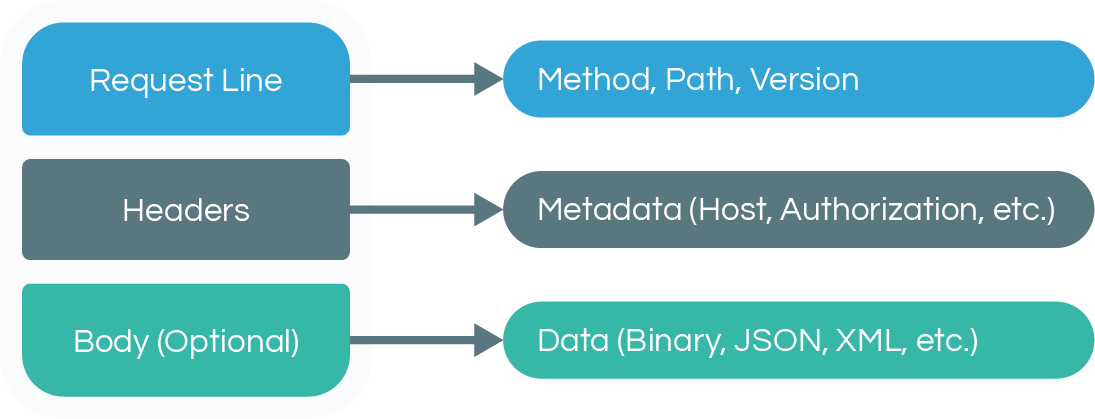
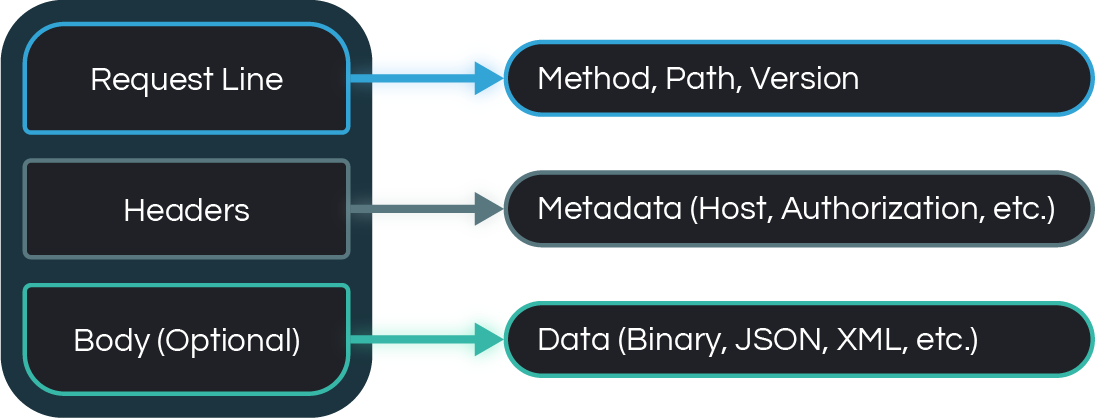
feat: add filesystem protocol and revise http grpc kafka iamges

diff --git a/src/.vuepress/sidebar/en.ts b/src/.vuepress/sidebar/en.ts
@@ -274,8 +274,8 @@ export const enSidebar = sidebar({
             },
             {
               text: "Filesystem",
-              collapsible: true,
-              children: ["filesystem/filesystem.md"],
+              link: "filesystem.md",
+              prefix: "concepts/protocol/",
             },
             {
               text: "TLS",

diff --git a/src/concepts/protocol/filesystem.md b/src/concepts/protocol/filesystem.md
@@ -1,0 +1,42 @@
+---
+shortTitle: Filesystem
+description: Filesystem Protocol in Zilla
+---
+
+# Filesystem Protocol
+
+## Introduction
+
+Zilla implements the Filesystem protocol for providing access to local files and directories on the local filesystem. When combined with HTTP binding, it behaves as a webserver.
+
+## Supported Features
+
+1. Basic Filesystem operations (CREATE, UPDATE, DELETE).
+2. Symbolic Links support.
+3. Robust routing capabilities.
+
+## Security
+
+### HTTPS
+
+By utilizing HTTP and [**`TLS` binding**](../../reference/config/bindings/tls/README.md), a TLS encryption can be enforced on the Filesystem bindings. This prevents eavesdropping, tampering, and man-in-the-middle (MITM) attacks.
+
+### Authentication
+
+**Zilla natively supports [JWT-based authentication](../../reference/config/guards/jwt.md)**, using a `guard` implementation that allows seamless validation and access control for protected resources.
+
+During authentication, the client sends the token in the Authorization header with each request. The server then validates the token’s integrity and claims before granting access.
+
+## Zilla: HTTP Filesystem Use Cases
+
+Zilla leverages Filesystem Protocol to provide powerful routing and serving files through Zilla.
+
+- **HTTP Filesystem Proxy**
+  - [http.filesystem.config.server](https://github.com/aklivity/zilla-examples/tree/main/http.filesystem.config.server)
+  - [http.filesystem](https://github.com/aklivity/zilla-examples/tree/main/http.filesystem)
+
+## Reference
+
+[Filesystem Binding](../../reference/config/bindings/filesystem/README.md) The `filesystem` support, with `server` behavior.
+
+[http-filesystem Binding](../../reference/config/bindings/http-filesystem/README.md) Binding with `http-filesystem` support, with `proxy` behavior.
